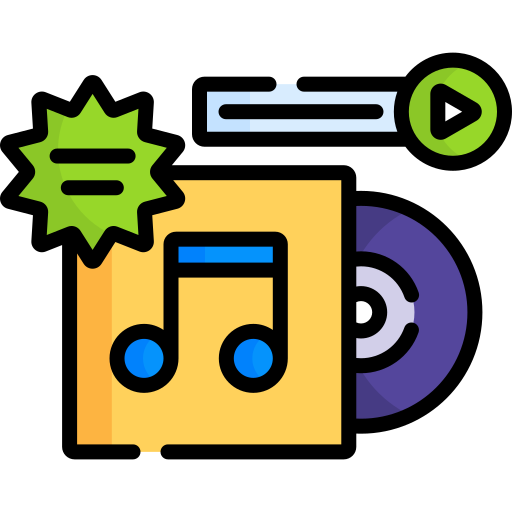
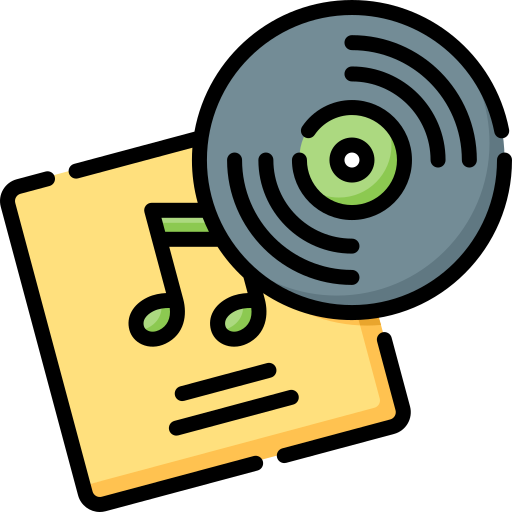
All pages connecting to database

diff --git a/A2Chinook/MainWindow.xaml b/A2Chinook/MainWindow.xaml
@@ -42,21 +42,21 @@
             </MenuItem>
         </Menu>
         <ToolBar DockPanel.Dock="Left">
-            <StackPanel Orientation="Vertical" Width="50">
+            <StackPanel Orientation="Vertical" Width="95">
                 <Button x:Name="HomeButton" ToolTip="Go To Home"
-                        Click="HomeButton_Click">
+                        Click="Home_Click">
                     <Image Source="{StaticResource homeImage}"></Image>
                 </Button>
                 <Button x:Name="ArtistsButton" ToolTip="View Artists"
-                        Click="ArtistsButton_Click">
+                        Click="Artists_Click">
                     <Image Source="{StaticResource artistsImage}"></Image>
                 </Button>
                 <Button x:Name="AlbumsButton" ToolTip="View Albums"
-                        Click="AlbumsButton_Click">
+                        Click="Albums_Click">
                     <Image Source="{StaticResource albumsImage}"></Image>
                 </Button>
                 <Button x:Name="TracksButton" ToolTip="View Tracks"
-                        Click="TracksButton_Click">
+                        Click="Tracks_Click">
                     <Image Source="{StaticResource tracksImage}"></Image>
                 </Button>
             </StackPanel>
@@ -72,4 +72,4 @@
 <!--<a href="https://www.flaticon.com/free-icons/track" title="track icons">Track icons created by Freepik - Flaticon</a>-->
 <!--<a href="https://www.flaticon.com/free-icons/music-and-multimedia" title="music and multimedia icons">Music and multimedia icons created by Anggara - Flaticon</a>-->
 <!--<a href="https://www.flaticon.com/free-icons/music-album" title="music album icons">Music album icons created by Freepik - Flaticon</a>-->
-<!--<a href="https://www.flaticon.com/free-icons/home" title="home icons">Home icons created by Freepik - Flaticon</a>-->
+<!--<a href="https://www.flaticon.com/free-icons/vinyl" title="vinyl icons">Vinyl icons created by Freepik - Flaticon</a>-->

diff --git a/A2Chinook/Pages/AlbumsPage.xaml b/A2Chinook/Pages/AlbumsPage.xaml
@@ -8,7 +8,20 @@
       d:DesignHeight="450" d:DesignWidth="800"
       Title="AlbumsPage">
 
-    <Grid>
-        
-    </Grid>
+    <Page.Resources>
+        <CollectionViewSource x:Key="albumViewSource"></CollectionViewSource>
+    </Page.Resources>
+
+    <StackPanel>
+        <TextBlock Text="ALBUMS PAGE" FontSize="48"></TextBlock>
+        <DataGrid ItemsSource="{Binding Source={StaticResource albumViewSource}}"
+                  AutoGenerateColumns="False">
+            <DataGrid.Columns>
+                <DataGridTextColumn Binding="{Binding AlbumId}" Header="ID"></DataGridTextColumn>
+                <DataGridTextColumn Binding="{Binding Title}" Header="Title"></DataGridTextColumn>
+                <DataGridTextColumn Binding="{Binding ArtistId}" Header="ArtistID"></DataGridTextColumn>
+
+            </DataGrid.Columns>
+        </DataGrid>
+    </StackPanel>
 </Page>

diff --git a/A2Chinook/Pages/ArtistsPage.xaml b/A2Chinook/Pages/ArtistsPage.xaml
@@ -8,7 +8,18 @@
       d:DesignHeight="450" d:DesignWidth="800"
       Title="ArtistsPage">
 
-    <Grid>
-        
-    </Grid>
+    <Page.Resources>
+        <CollectionViewSource x:Key="artistViewSource"></CollectionViewSource>
+    </Page.Resources>
+
+    <StackPanel>
+        <TextBlock Text="ALBUMS PAGE" FontSize="48"></TextBlock>
+        <DataGrid ItemsSource="{Binding Source={StaticResource artistViewSource}}"
+              AutoGenerateColumns="False">
+            <DataGrid.Columns>
+                <DataGridTextColumn Binding="{Binding ArtistId}" Header="ID"></DataGridTextColumn>
+                <DataGridTextColumn Binding="{Binding Name}" Header="Artist Name"></DataGridTextColumn>
+            </DataGrid.Columns>
+        </DataGrid>
+    </StackPanel>
 </Page>

diff --git a/A2Chinook/Pages/TracksPage.xaml b/A2Chinook/Pages/TracksPage.xaml
@@ -8,7 +8,18 @@
       d:DesignHeight="450" d:DesignWidth="800"
       Title="TracksPage">
 
-    <Grid>
-        
-    </Grid>
+    <Page.Resources>
+        <CollectionViewSource x:Key="trackViewSource"></CollectionViewSource>
+    </Page.Resources>
+
+    <StackPanel>
+        <TextBlock Text="ALBUMS PAGE" FontSize="48"></TextBlock>
+        <DataGrid ItemsSource="{Binding Source={StaticResource trackViewSource}}"
+              AutoGenerateColumns="False">
+            <DataGrid.Columns>
+                <DataGridTextColumn Binding="{Binding TrackId}" Header="ID"></DataGridTextColumn>
+                <DataGridTextColumn Binding="{Binding Name}" Header="Album Name"></DataGridTextColumn>
+            </DataGrid.Columns>
+        </DataGrid>
+    </StackPanel>
 </Page>

diff --git a/A2Chinook/Pages/HomePage.xaml b/A2Chinook/Pages/HomePage.xaml
@@ -8,7 +8,7 @@
       d:DesignHeight="450" d:DesignWidth="800"
       Title="HomePage">
 
-    <Grid>
-        
-    </Grid>
+    <StackPanel>
+        <TextBlock Text="HOME PAGE" FontSize="48"></TextBlock>
+    </StackPanel>
 </Page>

diff --git a/A2Chinook/Pages/ArtistsPage.xaml.cs b/A2Chinook/Pages/ArtistsPage.xaml.cs
@@ -1,17 +1,8 @@
-using System;
-using System.Collections.Generic;
-using System.Linq;
-using System.Text;
-using System.Threading.Tasks;
-using System.Windows;
+using System.Windows;
 using System.Windows.Controls;
 using System.Windows.Data;
-using System.Windows.Documents;
-using System.Windows.Input;
-using System.Windows.Media;
-using System.Windows.Media.Imaging;
-using System.Windows.Navigation;
-using System.Windows.Shapes;
+using Microsoft.EntityFrameworkCore;
+using A2Chinook.Data;
 
 namespace A2Chinook.Pages
 {
@@ -20,9 +11,25 @@ namespace A2Chinook.Pages
     /// </summary>
     public partial class ArtistsPage : Page
     {
+        ChinookContext context = new ChinookContext();
+        CollectionViewSource artistViewSource = new CollectionViewSource();
         public ArtistsPage()
         {
             InitializeComponent();
+
+            //Tie the markup viewsource object to the C# code viewsource object
+            artistViewSource = (CollectionViewSource)FindResource(nameof(artistViewSource));
+
+            //use the dbConteext to tell ef to load the data we want to use on this page
+            context.Artists.Load();
+
+            //Set the viewsource data source to use the employees data collection (dbset)
+            artistViewSource.Source = context.Artists.Local.ToObservableCollection();
+        }
+
+        private void Button_Click(object sender, RoutedEventArgs e)
+        {
+            context.SaveChanges();
         }
     }
 }

diff --git a/A2Chinook/Pages/AlbumsPage.xaml.cs b/A2Chinook/Pages/AlbumsPage.xaml.cs
@@ -1,17 +1,8 @@
-using System;
-using System.Collections.Generic;
-using System.Linq;
-using System.Text;
-using System.Threading.Tasks;
-using System.Windows;
+using System.Windows;
 using System.Windows.Controls;
 using System.Windows.Data;
-using System.Windows.Documents;
-using System.Windows.Input;
-using System.Windows.Media;
-using System.Windows.Media.Imaging;
-using System.Windows.Navigation;
-using System.Windows.Shapes;
+using Microsoft.EntityFrameworkCore;
+using A2Chinook.Data;
 
 namespace A2Chinook.Pages
 {
@@ -20,9 +11,26 @@ namespace A2Chinook.Pages
     /// </summary>
     public partial class AlbumsPage : Page
     {
+        ChinookContext context = new ChinookContext();
+        CollectionViewSource albumViewSource = new CollectionViewSource();
         public AlbumsPage()
         {
             InitializeComponent();
+
+            //Tie the markup viewsource object to the C# code viewsource object
+            albumViewSource = (CollectionViewSource)FindResource(nameof(albumViewSource));
+
+            //use the dbConteext to tell ef to load the data we want to use on this page
+            context.Albums.Load();
+
+            //Set the viewsource data source to use the employees data collection (dbset)
+            albumViewSource.Source = context.Albums.Local.ToObservableCollection();
+        }
+
+        private void Button_Click(object sender, RoutedEventArgs e)
+        {
+            context.SaveChanges();
         }
     }
 }
+

diff --git a/A2Chinook/Pages/TracksPage.xaml.cs b/A2Chinook/Pages/TracksPage.xaml.cs
@@ -1,17 +1,9 @@
-using System;
-using System.Collections.Generic;
-using System.Linq;
-using System.Text;
-using System.Threading.Tasks;
-using System.Windows;
+using System.Windows;
 using System.Windows.Controls;
 using System.Windows.Data;
-using System.Windows.Documents;
-using System.Windows.Input;
-using System.Windows.Media;
-using System.Windows.Media.Imaging;
-using System.Windows.Navigation;
-using System.Windows.Shapes;
+using Microsoft.EntityFrameworkCore;
+using A2Chinook.Data;
+
 
 namespace A2Chinook.Pages
 {
@@ -20,9 +12,25 @@ namespace A2Chinook.Pages
     /// </summary>
     public partial class TracksPage : Page
     {
+        ChinookContext context = new ChinookContext();
+        CollectionViewSource trackViewSource = new CollectionViewSource();
         public TracksPage()
         {
             InitializeComponent();
+
+            //Tie the markup viewsource object to the C# code viewsource object
+            trackViewSource = (CollectionViewSource)FindResource(nameof(trackViewSource));
+
+            //use the dbConteext to tell ef to load the data we want to use on this page
+            context.Tracks.Load();
+
+            //Set the viewsource data source to use the employees data collection (dbset)
+            trackViewSource.Source = context.Tracks.Local.ToObservableCollection();
+        }
+
+        private void Button_Click(object sender, RoutedEventArgs e)
+        {
+            context.SaveChanges();
         }
     }
 }

diff --git a/A2Chinook/MainWindow.xaml.cs b/A2Chinook/MainWindow.xaml.cs
@@ -23,42 +23,23 @@ namespace A2Chinook
 
         private void Home_Click(object sender, RoutedEventArgs e)
         {
-
+            mainFrame.NavigationService.Navigate(new Pages.HomePage());
         }
 
         private void Artists_Click(object sender, RoutedEventArgs e)
         {
-
+            mainFrame.NavigationService.Navigate(new Pages.ArtistsPage());
         }
 
         private void Albums_Click(object sender, RoutedEventArgs e)
         {
-
+            mainFrame.NavigationService.Navigate(new Pages.AlbumsPage()); ;
         }
 
         private void Tracks_Click(object sender, RoutedEventArgs e)
         {
-
+            mainFrame.NavigationService.Navigate(new Pages.TracksPage());
         }
 
-        private void HomeButton_Click(object sender, RoutedEventArgs e)
-        {
-
-        }
-
-        private void ArtistsButton_Click(object sender, RoutedEventArgs e)
-        {
-
-        }
-
-        private void AlbumsButton_Click(object sender, RoutedEventArgs e)
-        {
-
-        }
-
-        private void TracksButton_Click(object sender, RoutedEventArgs e)
-        {
-
-        }
     }
 }
